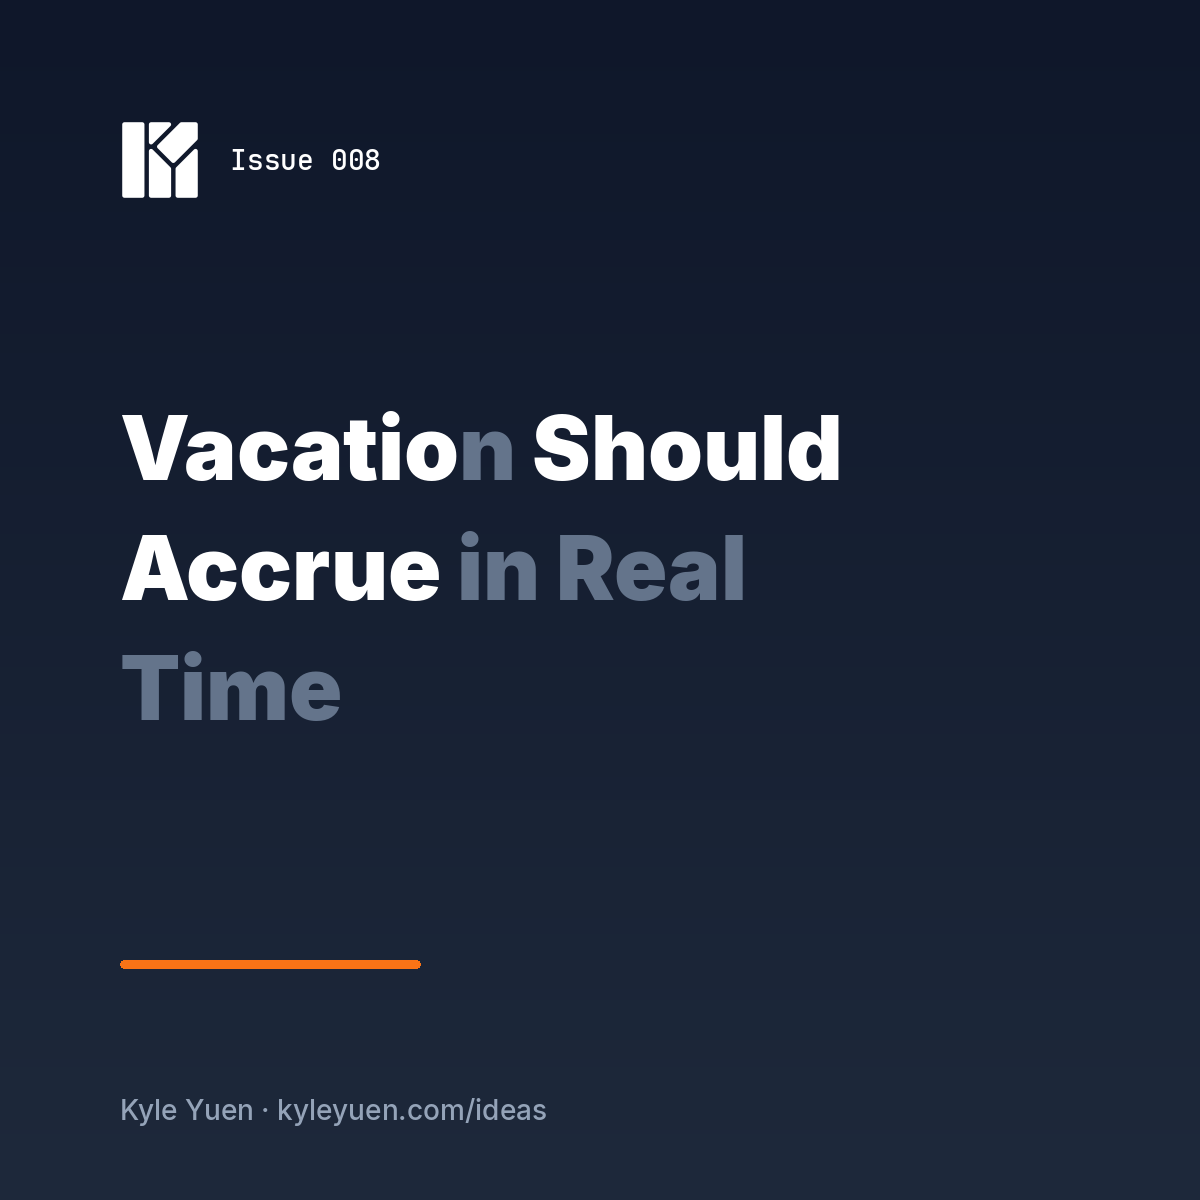
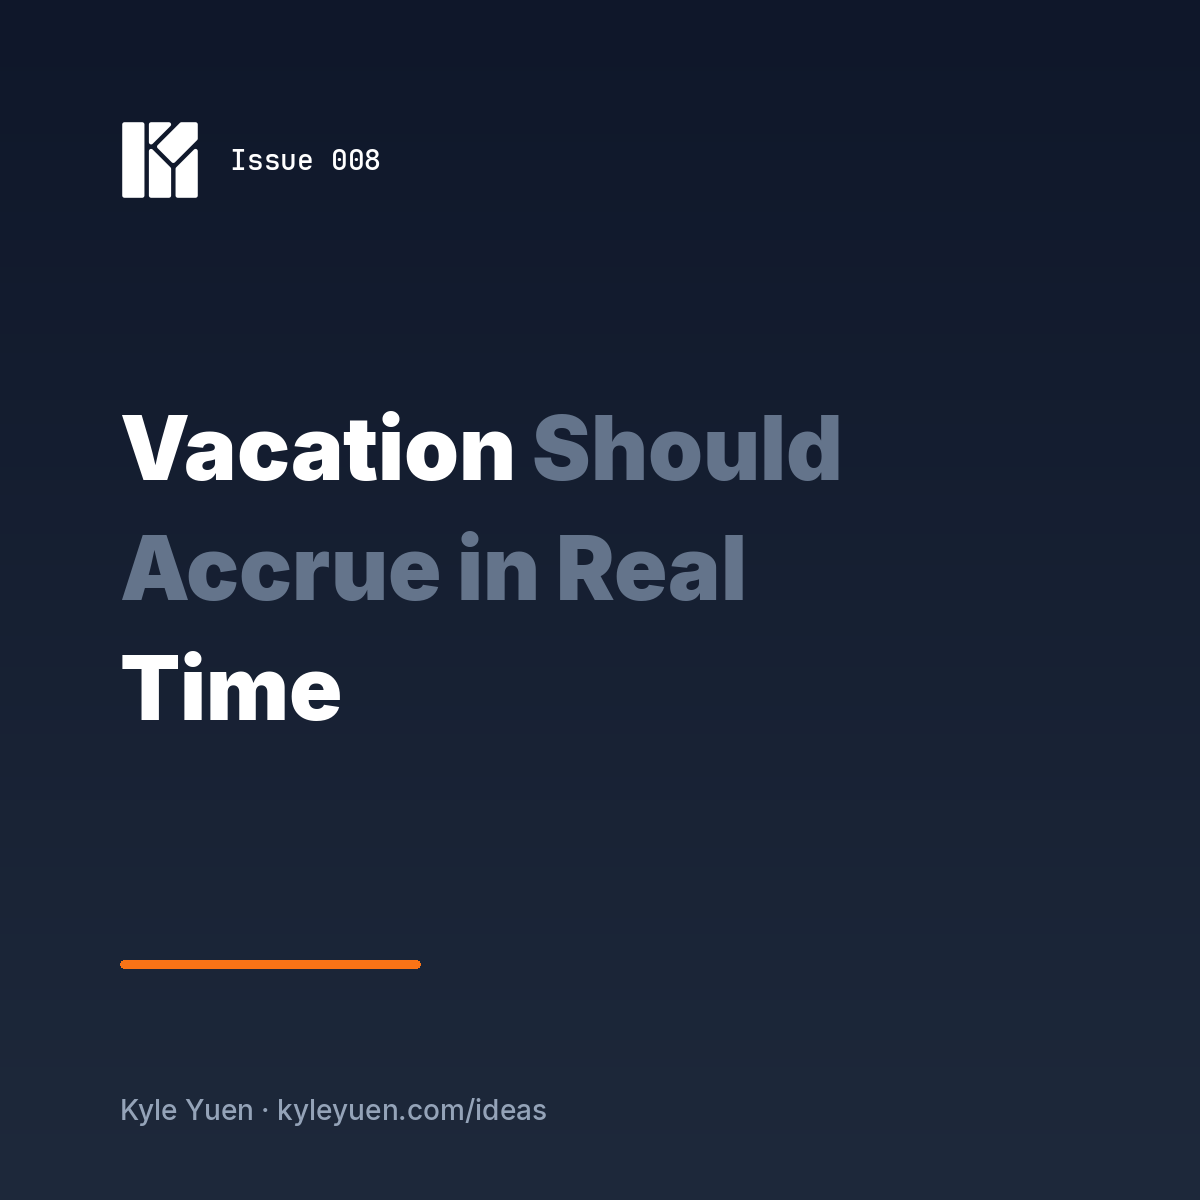
Publish Issue 008 refinements: H3 subsections, carry-forward/raise policy, updated thumbnail

Changed region(s): [[0.0925, 0.4317, 0.37, 0.6167], [0.37, 0.3392, 0.7092, 0.4008]]

diff --git a/ideas/vacation-should-accrue-in-real-time.html b/ideas/vacation-should-accrue-in-real-time.html
@@ -91,11 +91,15 @@ body { font-family: 'Inter', sans-serif; background: #fafafa; }
     <p>The ESA also says the employer must ensure the employee takes the annual vacation within 12 months after completing the year of employment that earned it. (BC ESA, s. 57(2).)</p>
 
     <h2>The cost gap the law creates</h2>
+    <h3>The pay-rate gap</h3>
     <p>The law ties vacation pay to wages earned in the entitlement year. That creates a rate mismatch whenever someone’s pay goes up. A salaried employee who gets a raise after their two weeks are earned now has vacation pay calculated at the old salary. A wage employee who moves to a higher hourly rate has the same problem. The ESA does not require topping up, but many employers do it anyway so the employee continues to receive their current pay during time off.</p>
 
     <p>For companies that do top up, I recommend recording the top-up amount under a separate earnings code. That makes the cost of the benefit visible. Without the split, the extra pay blends into regular vacation pay and the company never sees how much it is spending to keep salaries whole during time off.</p>
 
-    <p>The 12-month take-it window is meant to stop this from compounding forever. If balances carry forward year after year, the employer can end up paying out days earned at older, lower wage rates at the employee’s current salary. That is not a legal issue, but it is a real cost issue.</p>
+    <h3>The one-year cliff</h3>
+    <p>The one-year mark is a system checkpoint, not a magic earning event. If an employee can take all ten days on day 366, those days were already earned during the previous 365. Blocking access until the anniversary just hides the balance from both the employee and payroll.</p>
+
+    <p>That delay creates unnecessary friction for everyone. An employee who needs a day or two for a trip before the anniversary has to take unpaid leave, then take the same time again later as paid leave once the balance appears. Managers end up covering the same person twice — once for the unpaid absence now, and again for the paid absence in the next year — which doubles coverage planning. Payroll gets a variance every time someone takes unpaid leave instead of regular paid vacation, which means extra validation instead of a standard run.</p>
 
     <h2>How to run vacation pay in practice</h2>
     <p>For high-turnover or casual roles, the cleanest approach is to pay out vacation pay on every payroll. The employee gets the dollars as they are earned, and the company is left with only the days liability. The days are not payable on termination, so there is no growing cash liability sitting on the books.</p>
@@ -105,13 +109,11 @@ body { font-family: 'Inter', sans-serif; background: #fafafa; }
     <p>A manager should approve time off based on whether the employee has enough accrued days and whether coverage works. Whether the vacation pay pool fully covers the day is a payroll question, not a manager question. The system should let the employee take the day if they have the time available, and handle any shortfall or top-up in payroll behind the scenes.</p>
 
     <h2>What a clean system looks like</h2>
-    <p>The one-year mark is a system checkpoint, not a magic earning event. If an employee can take all ten days on day 366, those days were already earned during the previous 365. Blocking access until the anniversary just hides the balance from both the employee and payroll.</p>
+    <p>In a clean setup, the payroll engine accrues vacation pay as a percentage of wages every cycle, and the time-off module accrues days at the same pace. Each pay period sets aside the right percentage of current wages, so the dollar balance stays current with what the employee actually earns now.</p>
 
-    <p>It also creates unnecessary friction for everyone. An employee who needs a long weekend before the anniversary has to take unpaid time off, then make up the vacation later once the balance appears. Managers end up planning around unpaid leave now and paid leave later, essentially covering the same absence twice. Payroll gets a variance every time someone takes unpaid leave, which means extra validation instead of a standard paid-leave run.</p>
+    <p>The time-off system shows the manager the accrued days and coverage status. The payroll system handles the dollar side. If a small gap appears because of a recent raise, payroll applies the top-up automatically using the separate earnings code. There is no spreadsheet on the side, no manager guessing at balances, and no finance team reconciling liabilities after the fact.</p>
 
-    <p>In a clean setup, the payroll engine accrues vacation pay as a percentage of wages every cycle, and the time-off module accrues days at the same pace. Each pay period sets aside the right percentage of current wages, so the balance reflects what the employee actually earns now. When an employee requests a day off, the system checks both balances: enough accrued time, and enough accrued pay to cover the day at their average earnings rate.</p>
-
-    <p>If the answer is yes, the leave is approved and payroll pays it automatically. If the answer is no, the request is either blocked or flagged. There is no spreadsheet on the side, no manager guessing at balances, and no finance team reconciling liabilities after the fact.</p>
+    <p>A few policy choices also keep the system clean. A structured vacation carry-forward cap prevents balances from inflating indefinitely. A standardized performance review and salary increase schedule reduces surprise raises that create top-up gaps in the first place. When the rules around days, dollars, raises, and carry-forward are consistent, the platform can run the math without exceptions.</p>
 
     <h2>The bottom line</h2>
     <p>Vacation is not a reward that drops after twelve months. It is compensation that is earned continuously. The law already separates days from dollars. A well-run system should accrue both in real time, let employees access leave as they earn it, and let the platform handle the math. That reduces cost inflation for the company and gives employees a benefit that actually matches how they work.</p>

diff --git a/index.html b/index.html
@@ -264,11 +264,11 @@ body { font-family: 'Inter', sans-serif; background: #fafafa; }
     
     <div id="latest-idea">
       <div class="grid grid-cols-1 md:grid-cols-2 gap-8 max-w-2xl mx-auto px-8">
-      <a href="/ideas/vacation-should-accrue-in-real-time.html" class="home-idea-tile block">
+      <a href="/ideas/stop-living-in-your-email.html" class="home-idea-tile block">
         <div class="aspect-square overflow-hidden bg-slate-100 rounded-2xl">
           <div class="relative aspect-square overflow-hidden">
-            <img src="/ideas/assets/issue-008-vacation-should-accrue-in-real-time-muted.png" class="absolute inset-0 w-full h-full object-cover" alt="Vacation Should Accrue in Real Time">
-            <img src="/ideas/assets/issue-008-vacation-should-accrue-in-real-time.png" class="absolute inset-0 w-full h-full object-cover opacity-0 transition-opacity duration-300 ease-out" alt="Vacation Should Accrue in Real Time">
+            <img src="/ideas/assets/issue-006-stop-living-in-your-email-muted.png" class="absolute inset-0 w-full h-full object-cover" alt="Stop Living in Your Email">
+            <img src="/ideas/assets/issue-006-stop-living-in-your-email.png" class="absolute inset-0 w-full h-full object-cover opacity-0 transition-opacity duration-300 ease-out" alt="Stop Living in Your Email">
           </div>
         </div>
       </a>
